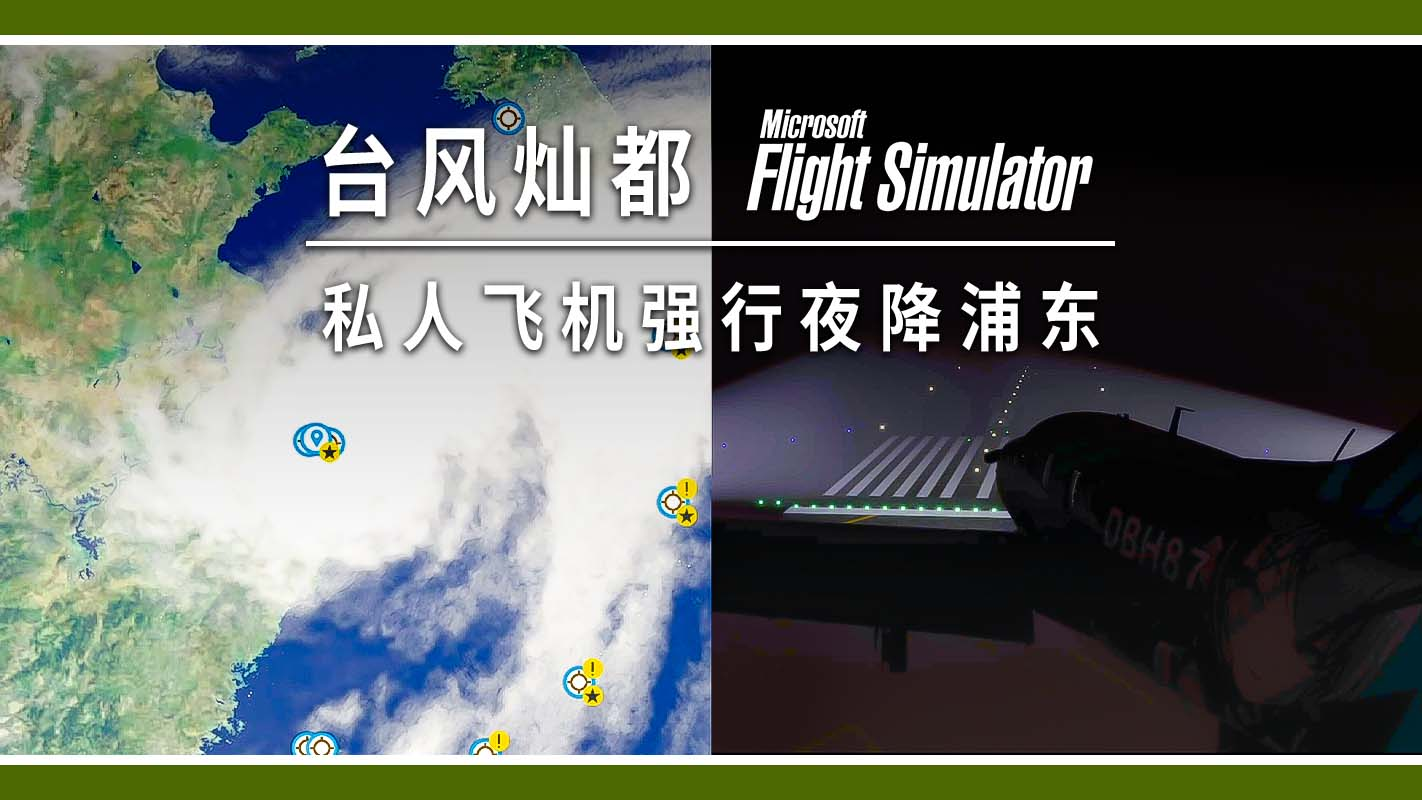
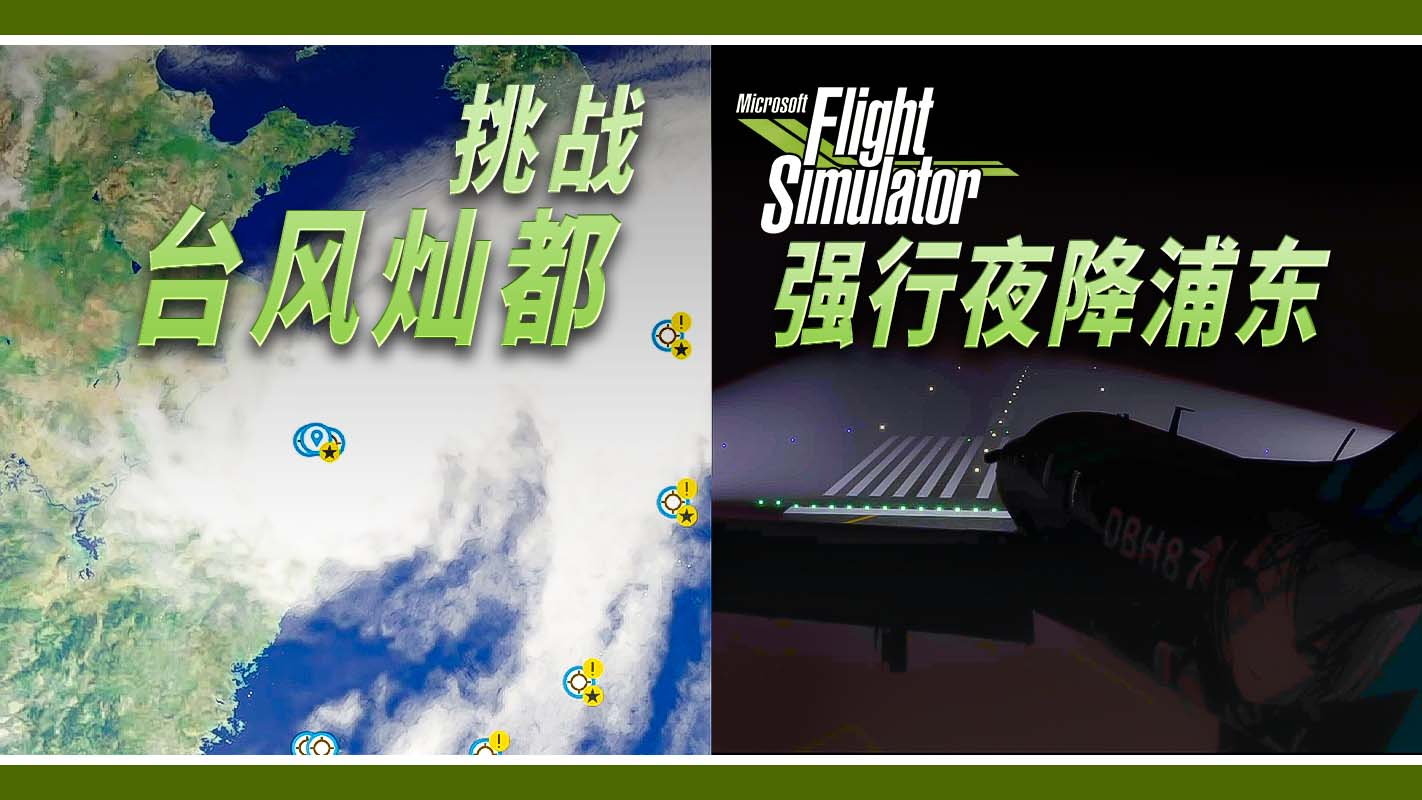
new vid

Changed region(s): [[0.0928, 0.0938, 0.9592, 0.4688]]

diff --git a/data/videos.ts b/data/videos.ts
@@ -3,7 +3,23 @@ import { VideoItem } from '@types';
 const videos: VideoItem[] = [
     {
         name: {
-            zh: '【微软模拟飞行】TBM930 硬闯台风灿都',
+            zh: '着陆挑战: 陡峭进近 - 卢加诺',
+        },
+        des: {
+            zh: '卢加诺机场（Aeroporto di Lugano），又名：卢加诺-阿尼奥机场（Lugano-Agno），由于山谷地形，该跑道的仪表进近有着 6.65° 的下滑坡道，远高于标准的 3°。甚至比著名的伦敦城机场的 5.5° 还要陡峭。',
+        },
+        thumbnailOriginal: './thumbnails/20210916.jpg',
+        link: {
+            youtube: 'https://youtu.be/b4rZ_IwzqME',
+            bilibili: 'https://www.bilibili.com/video/BV1nL4y187JZ',
+        },
+        tag: ['landing'],
+        release: new Date('2021-09-16T11:30:00+0800').valueOf(),
+    },
+
+    {
+        name: {
+            zh: 'TBM930 硬闯台风灿都',
         },
         des: {
             zh: '请大家登上这架 TBM930，从天津滨海国际机场起飞，前往上海浦东，挑战台风天气下的夜间着陆。大波胡的生死，就在接下来的几分钟决定！',
